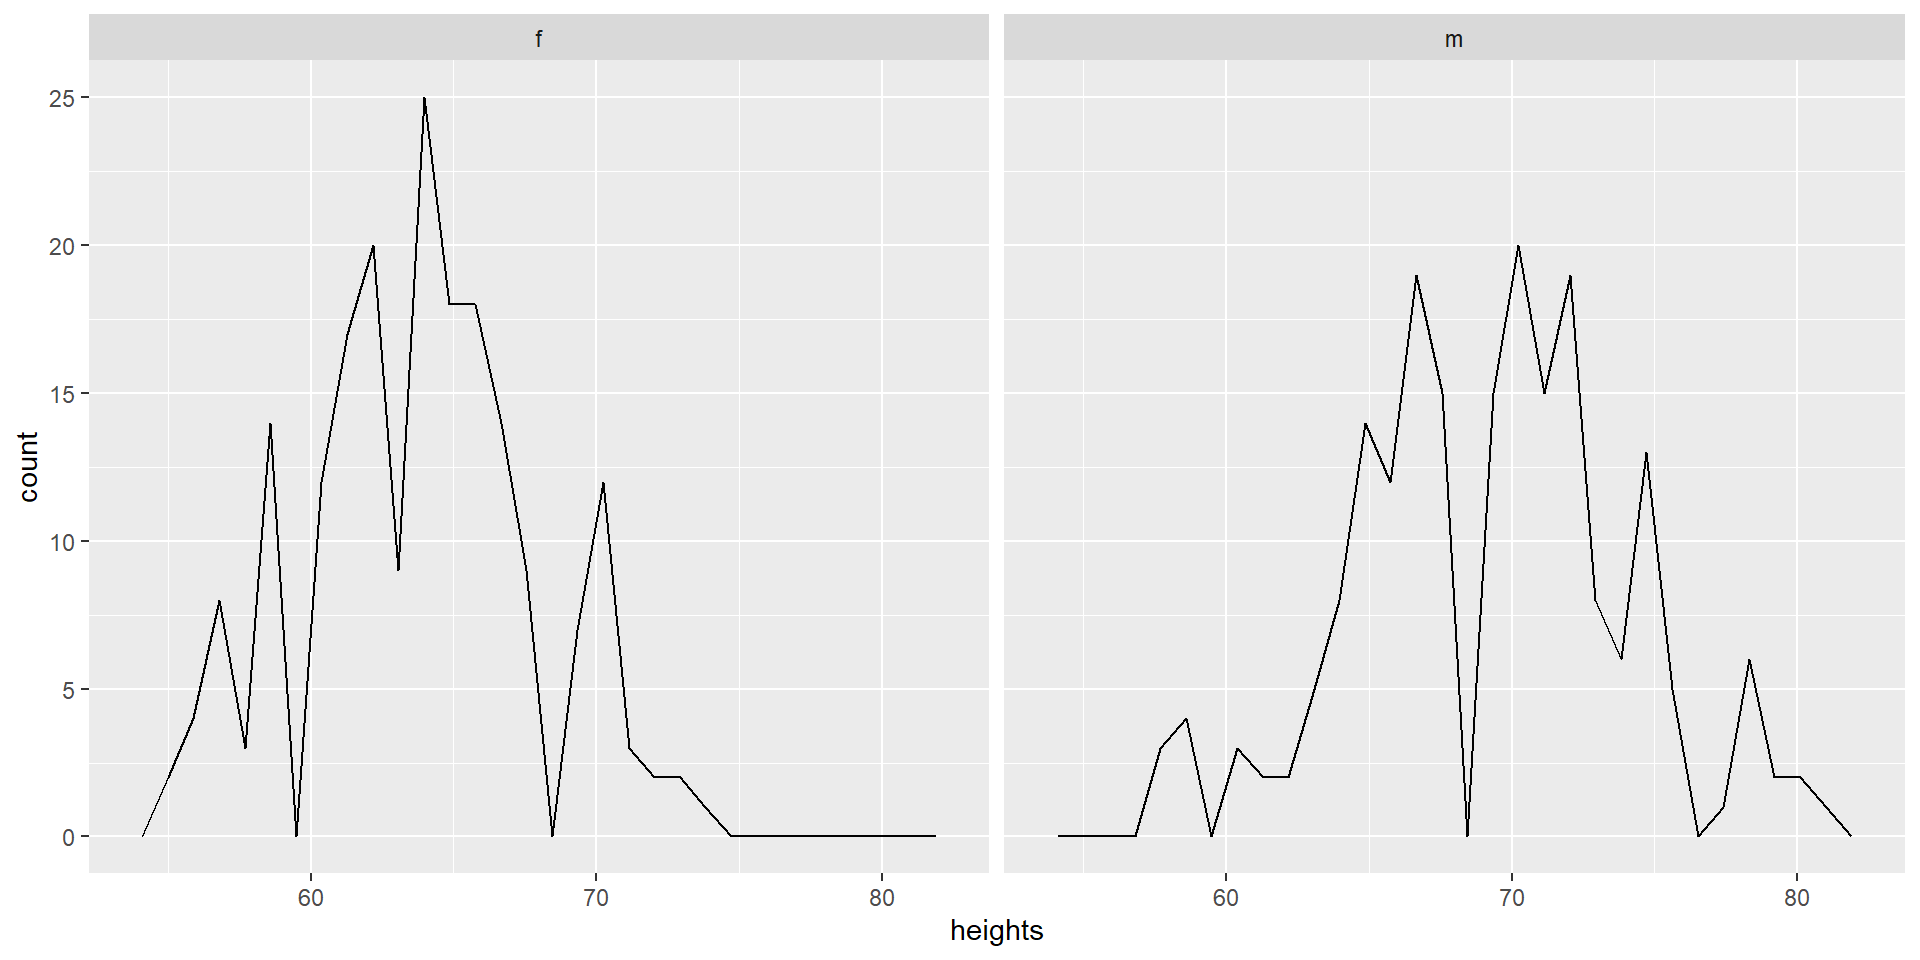
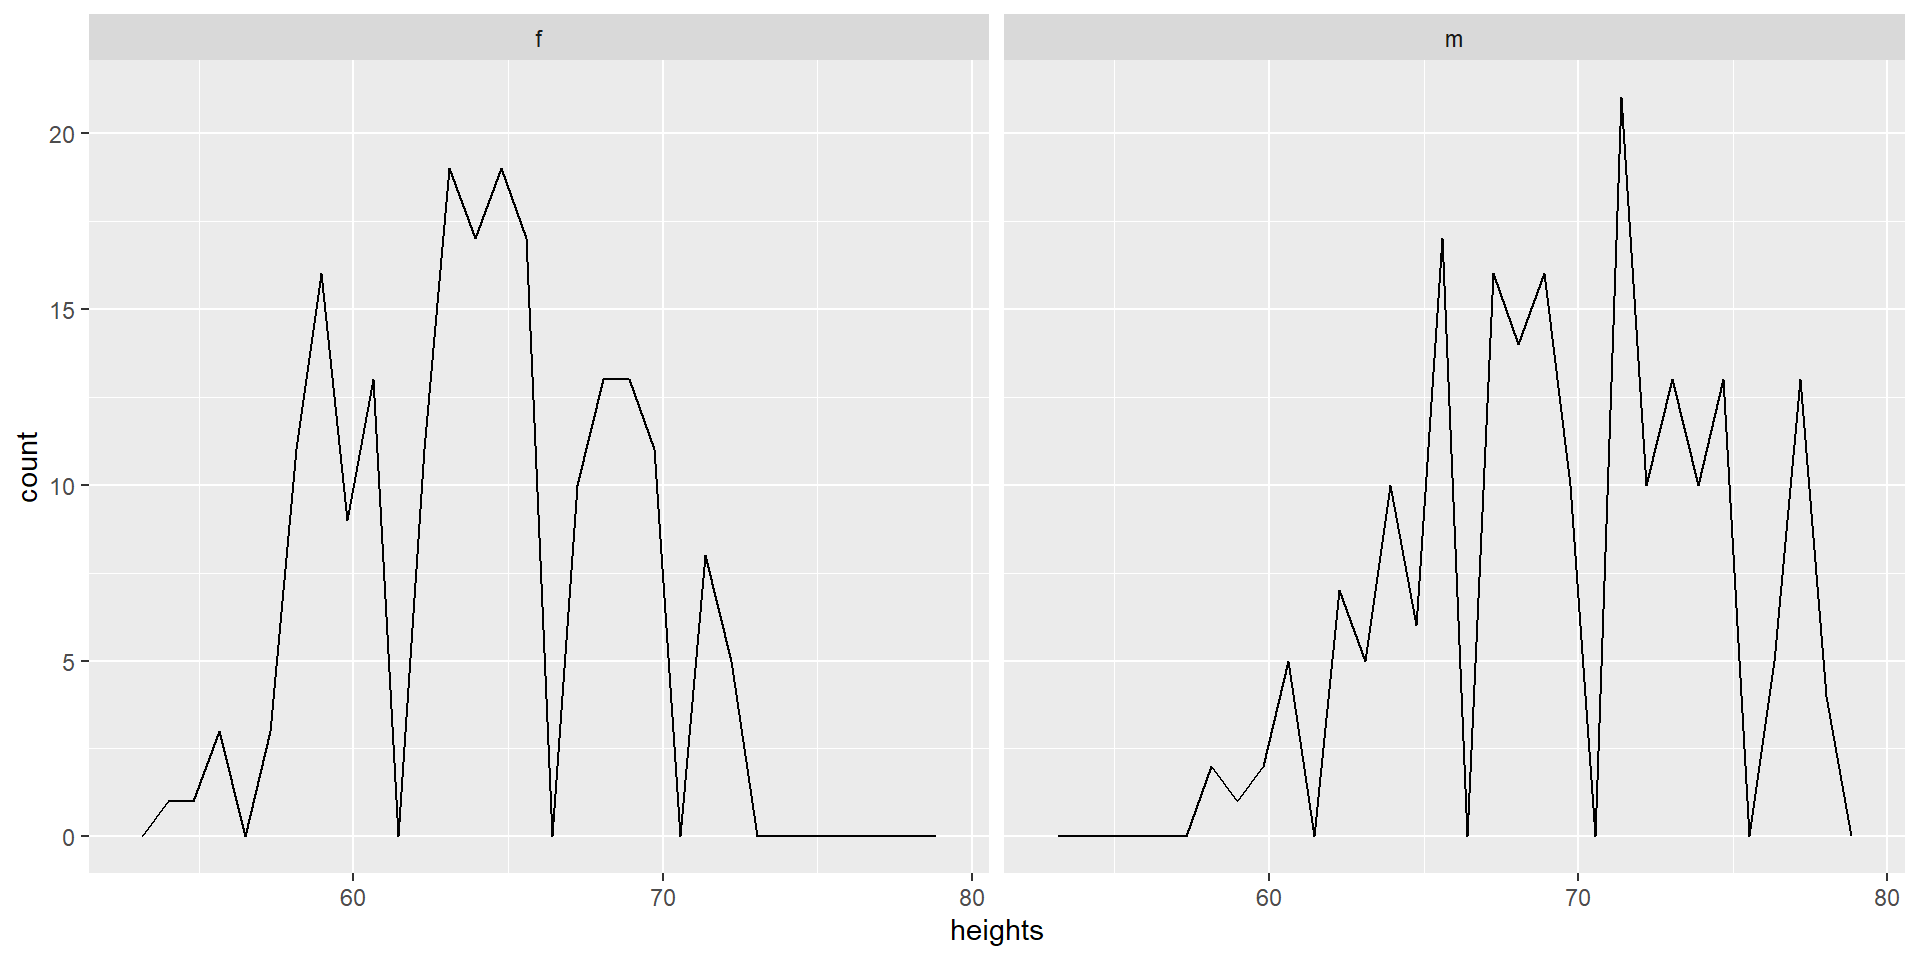
updated week4

diff --git a/docs/presentations/week4.html b/docs/presentations/week4.html
@@ -330,12 +330,12 @@ https://wall.sli.do/event/hyYKBnnVdyaKSNij3VurBg
 <pre><code># A tibble: 6 × 2
   heights sex  
     &lt;dbl&gt; &lt;chr&gt;
-1      64 f    
-2      70 f    
-3      62 f    
-4      68 f    
-5      67 f    
-6      60 f    </code></pre>
+1      70 f    
+2      68 f    
+3      65 f    
+4      59 f    
+5      70 f    
+6      63 f    </code></pre>
 </div>
 </div>
 <p>Make sure you have two columns</p>
@@ -404,37 +404,36 @@ https://wall.sli.do/event/hyYKBnnVdyaKSNij3VurBg
 </ul></li>
 </ul>
 </div>
-<div class="iframe">
-
-</div>
 </div>
 <div id="tabset-1-2">
 <div class="card-list">
 <ul>
-<li>Compare the following to the version with <code>mutate()</code>. How do they differ?</li>
+<li><p>Compare the following to the version with <code>mutate()</code>. How do they differ?</p>
+<ul>
+<li>Note: this is an incomplete summary table. Please read more below!</li>
 </ul>
-</div>
 <div class="code-copy-outer-scaffold"><div class="sourceCode" id="cb7"><pre class="sourceCode numberSource r number-lines code-with-copy"><code class="sourceCode r"><span id="cb7-1"><a href=""></a>summary_table <span class="ot">&lt;-</span> df_both <span class="sc">%&gt;%</span> <span class="fu">group_by</span>(sex) <span class="sc">%&gt;%</span> <span class="fu">summarize</span>(<span class="at">Mean=</span><span class="fu">mean</span>(heights))</span>
-<span id="cb7-2"><a href=""></a>summary_table</span></code></pre></div><button title="Copy to Clipboard" class="code-copy-button"><i class="bi"></i></button></div>
+<span id="cb7-2"><a href=""></a>summary_table</span></code></pre></div><button title="Copy to Clipboard" class="code-copy-button"><i class="bi"></i></button></div></li>
+<li><p>Complete summary table should fill in the following</p>
+<div class="code-copy-outer-scaffold"><div class="sourceCode" id="cb8"><pre class="sourceCode numberSource r number-lines code-with-copy"><code class="sourceCode r"><span id="cb8-1"><a href=""></a>summary_table <span class="ot">&lt;-</span> df_both <span class="sc">%&gt;%</span> <span class="fu">group_by</span>(sex) <span class="sc">%&gt;%</span> <span class="fu">summarize</span>(<span class="at">Mean=</span><span class="fu">mean</span>(heights), <span class="at">SampleSize =</span> ..., <span class="at">SD =</span> ..., <span class="at">SE =</span> ...)</span>
+<span id="cb8-2"><a href=""></a>summary_table</span></code></pre></div><button title="Copy to Clipboard" class="code-copy-button"><i class="bi"></i></button></div>
+<ul>
+<li>SD is standard deviation and SE is standard error.</li>
+<li>The function to calculate the sample size is just <code>n()</code></li>
+<li>The function to calculate SD is <code>sd(height)</code></li>
+<li>To calculate SE, that is SD/sqrt(SampleSize)</li>
+</ul></li>
+<li><p>Output from complete code:</p></li>
+</ul>
 <div class="cell">
 <div class="cell-output cell-output-stdout">
 <pre><code># A tibble: 2 × 5
   sex   SampleSize  Mean    SD    SE
   &lt;chr&gt;      &lt;int&gt; &lt;dbl&gt; &lt;dbl&gt; &lt;dbl&gt;
-1 f            200  63.8  4.01 0.283
-2 m            200  69.3  4.70 0.332</code></pre>
+1 f            200  64.2  4.16 0.294
+2 m            200  69.5  4.70 0.332</code></pre>
 </div>
 </div>
-<div class="iframe">
-
-</div>
-<div class="card-list">
-<ul>
-<li>For this class, a summary table includes SampleSize, Mean, SD, and SE (standard error).</li>
-<li>The function to calculate the sample size is just <code>n()</code></li>
-<li>The function to calculate SD is <code>sd(height)</code></li>
-<li>To calculate SE, that is SD/sqrt(SampleSize)</li>
-</ul>
 </div>
 </div>
 <div id="tabset-1-3">
@@ -442,7 +441,7 @@ https://wall.sli.do/event/hyYKBnnVdyaKSNij3VurBg
 <ul>
 <li>Use <code>facet_warp(~sex)</code> to create a separate panel for each sex.</li>
 </ul>
-<div class="code-copy-outer-scaffold"><div class="sourceCode" id="cb9"><pre class="sourceCode numberSource r number-lines code-with-copy"><code class="sourceCode r"><span id="cb9-1"><a href=""></a><span class="fu">ggplot</span>(...) <span class="sc">+</span> <span class="fu">geom_histogram</span>() <span class="sc">+</span> <span class="fu">facet_wrap</span>(<span class="sc">~</span>sex)</span></code></pre></div><button title="Copy to Clipboard" class="code-copy-button"><i class="bi"></i></button></div>
+<div class="code-copy-outer-scaffold"><div class="sourceCode" id="cb10"><pre class="sourceCode numberSource r number-lines code-with-copy"><code class="sourceCode r"><span id="cb10-1"><a href=""></a><span class="fu">ggplot</span>(...) <span class="sc">+</span> <span class="fu">geom_histogram</span>() <span class="sc">+</span> <span class="fu">facet_wrap</span>(<span class="sc">~</span>sex)</span></code></pre></div><button title="Copy to Clipboard" class="code-copy-button"><i class="bi"></i></button></div>
 <div class="cell">
 <div class="cell-output-display">
 <div>
@@ -459,7 +458,7 @@ https://wall.sli.do/event/hyYKBnnVdyaKSNij3VurBg
 <ul>
 <li>Use <code>facet_warp(~sex)</code> to create a separate panel for each sex.</li>
 </ul>
-<div class="code-copy-outer-scaffold"><div class="sourceCode" id="cb10"><pre class="sourceCode numberSource r number-lines code-with-copy"><code class="sourceCode r"><span id="cb10-1"><a href=""></a><span class="fu">ggplot</span>(...) <span class="sc">+</span> <span class="fu">geom_freqpoly</span>() <span class="sc">+</span> <span class="fu">facet_wrap</span>(<span class="sc">~</span>sex)</span></code></pre></div><button title="Copy to Clipboard" class="code-copy-button"><i class="bi"></i></button></div>
+<div class="code-copy-outer-scaffold"><div class="sourceCode" id="cb11"><pre class="sourceCode numberSource r number-lines code-with-copy"><code class="sourceCode r"><span id="cb11-1"><a href=""></a><span class="fu">ggplot</span>(...) <span class="sc">+</span> <span class="fu">geom_freqpoly</span>() <span class="sc">+</span> <span class="fu">facet_wrap</span>(<span class="sc">~</span>sex)</span></code></pre></div><button title="Copy to Clipboard" class="code-copy-button"><i class="bi"></i></button></div>
 </div>
 <div class="cell">
 <div class="cell-output-display">
@@ -478,7 +477,7 @@ https://wall.sli.do/event/hyYKBnnVdyaKSNij3VurBg
 <li>What should the x and y variables be?</li>
 </ul>
 </div>
-<div class="code-copy-outer-scaffold"><div class="sourceCode" id="cb11"><pre class="sourceCode numberSource r number-lines code-with-copy"><code class="sourceCode r"><span id="cb11-1"><a href=""></a><span class="fu">ggplot</span>(...) <span class="sc">+</span> <span class="fu">geom_boxplot</span>()</span></code></pre></div><button title="Copy to Clipboard" class="code-copy-button"><i class="bi"></i></button></div>
+<div class="code-copy-outer-scaffold"><div class="sourceCode" id="cb12"><pre class="sourceCode numberSource r number-lines code-with-copy"><code class="sourceCode r"><span id="cb12-1"><a href=""></a><span class="fu">ggplot</span>(...) <span class="sc">+</span> <span class="fu">geom_boxplot</span>()</span></code></pre></div><button title="Copy to Clipboard" class="code-copy-button"><i class="bi"></i></button></div>
 <div class="cell">
 <div class="cell-output-display">
 <div>
@@ -544,16 +543,16 @@ https://wall.sli.do/event/hyYKBnnVdyaKSNij3VurBg
 <li>The Upper 95% CI is calculated as <code>Mean+1.96*SE</code></li>
 <li>You can obtain just the CIs by using <code>select()</code>, with the columns you want as input.</li>
 </ul>
-<div class="code-copy-outer-scaffold"><div class="sourceCode" id="cb12"><pre class="sourceCode numberSource r number-lines code-with-copy"><code class="sourceCode r"><span id="cb12-1"><a href=""></a>summary_table <span class="ot">&lt;-</span> summary_table <span class="sc">%&gt;%</span> <span class="fu">mutate</span>(<span class="at">LowerCI =</span> Mean<span class="fl">-1.96</span><span class="sc">*</span>SE, <span class="at">UpperCI =</span> Mean<span class="fl">+1.96</span><span class="sc">*</span>SE)</span>
-<span id="cb12-2"><a href=""></a>CIs <span class="ot">&lt;-</span> summary_table <span class="sc">%&gt;%</span> <span class="fu">select</span>(sex, LowerCI, UpperCI)</span>
-<span id="cb12-3"><a href=""></a>CIs</span></code></pre></div><button title="Copy to Clipboard" class="code-copy-button"><i class="bi"></i></button></div>
+<div class="code-copy-outer-scaffold"><div class="sourceCode" id="cb13"><pre class="sourceCode numberSource r number-lines code-with-copy"><code class="sourceCode r"><span id="cb13-1"><a href=""></a>summary_table <span class="ot">&lt;-</span> summary_table <span class="sc">%&gt;%</span> <span class="fu">mutate</span>(<span class="at">LowerCI =</span> Mean<span class="fl">-1.96</span><span class="sc">*</span>SE, <span class="at">UpperCI =</span> Mean<span class="fl">+1.96</span><span class="sc">*</span>SE)</span>
+<span id="cb13-2"><a href=""></a>CIs <span class="ot">&lt;-</span> summary_table <span class="sc">%&gt;%</span> <span class="fu">select</span>(sex, LowerCI, UpperCI)</span>
+<span id="cb13-3"><a href=""></a>CIs</span></code></pre></div><button title="Copy to Clipboard" class="code-copy-button"><i class="bi"></i></button></div>
 <div class="cell">
 <div class="cell-output cell-output-stdout">
 <pre><code># A tibble: 2 × 3
   sex   LowerCI UpperCI
   &lt;chr&gt;   &lt;dbl&gt;   &lt;dbl&gt;
-1 f        63.3    64.4
-2 m        68.6    69.9</code></pre>
+1 f        63.6    64.8
+2 m        68.8    70.1</code></pre>
 </div>
 </div>
 </div>
@@ -567,7 +566,7 @@ https://wall.sli.do/event/hyYKBnnVdyaKSNij3VurBg
 <li>Like for the boxplot, we need both x and y in aes(). What are they?</li>
 </ul>
 </div>
-<div class="code-copy-outer-scaffold"><div class="sourceCode" id="cb14"><pre class="sourceCode numberSource r number-lines code-with-copy"><code class="sourceCode r"><span id="cb14-1"><a href=""></a><span class="fu">ggplot</span>(<span class="at">data=</span>summary_table, <span class="fu">aes</span>(...)) <span class="sc">+</span> <span class="fu">geom_point</span>() <span class="sc">+</span> <span class="fu">geom_errorbar</span>(<span class="fu">aes</span>(<span class="at">ymin =</span> LowerCI, <span class="at">ymax=</span>UpperCI)) </span></code></pre></div><button title="Copy to Clipboard" class="code-copy-button"><i class="bi"></i></button></div>
+<div class="code-copy-outer-scaffold"><div class="sourceCode" id="cb15"><pre class="sourceCode numberSource r number-lines code-with-copy"><code class="sourceCode r"><span id="cb15-1"><a href=""></a><span class="fu">ggplot</span>(<span class="at">data=</span>summary_table, <span class="fu">aes</span>(...)) <span class="sc">+</span> <span class="fu">geom_point</span>() <span class="sc">+</span> <span class="fu">geom_errorbar</span>(<span class="fu">aes</span>(<span class="at">ymin =</span> LowerCI, <span class="at">ymax=</span>UpperCI)) </span></code></pre></div><button title="Copy to Clipboard" class="code-copy-button"><i class="bi"></i></button></div>
 <div class="cell">
 <div class="cell-output-display">
 <div>
